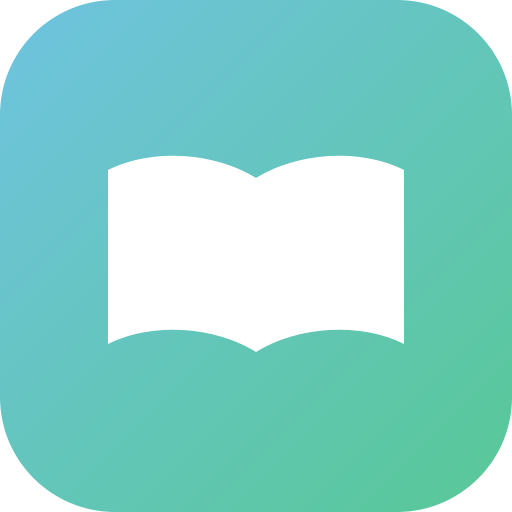
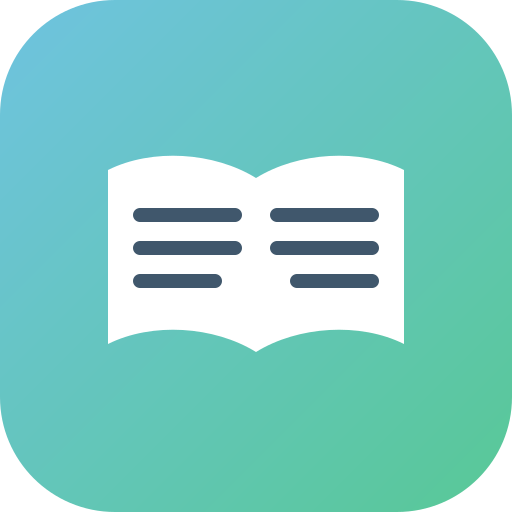
Rediseño Al Día (9/N): ícono de la PWA con renglones adentro, sin texto
A pedido de Santiago (mockup de referencia): el libro abierto ya existía
(ronda 9, ver _make_icons.js) pero estaba en blanco -- se le agregan 3
renglones cortos por página (líneas, no la palabra "Al Día") para que se
lea como un libro con contenido, mismo gradiente de marca (#6fc3e0 ->
#58c896) y misma lógica de safe-zone para el maskable de siempre.
Regenerados los 4 PNG (icon-192/icon-512/apple-touch-icon/maskable-512) --
el HTML ya los referenciaba por nombre de archivo así que no hizo falta
tocar ningún marcado, se actualizan solos en todos lados donde ya se
usaba (sidebar y hero de mockup-firme.html/landing.html).

diff --git a/_make_icons.js b/_make_icons.js
@@ -19,13 +19,33 @@ const GRAD_DEFS = `<linearGradient id="grad" x1="0%" y1="0%" x2="100%" y2="100%"
 // páginas abiertas en forma de ala, sin necesitar más de una forma.
 const BOOK_PATH = 'M256 178 C 214 152 152 148 108 170 L 108 344 C 152 322 214 326 256 352 C 298 326 360 322 404 344 L 404 170 C 360 148 298 152 256 178 Z';
 
+// Líneas de "texto" adentro de cada página (rediseño 2026-08-12, a pedido de
+// Santiago -- antes decía "Al" / "Día" en palabras; ahora son solo líneas,
+// como un libro con renglones, sin ninguna palabra encima). Tres renglones
+// por página, centrados dentro de la curva del ala para no salirse del
+// contorno del libro.
+const LINES = `
+    <g stroke="#1e3a52" stroke-width="14" stroke-linecap="round" opacity="0.85">
+      <line x1="140" y1="215" x2="235" y2="215"/>
+      <line x1="140" y1="248" x2="235" y2="248"/>
+      <line x1="140" y1="281" x2="215" y2="281"/>
+      <line x1="372" y1="215" x2="277" y2="215"/>
+      <line x1="372" y1="248" x2="277" y2="248"/>
+      <line x1="372" y1="281" x2="297" y2="281"/>
+    </g>`;
+
+// El libro + sus renglones se agrupan una sola vez y se reusan tal cual en
+// las dos variantes (ícono normal / maskable) para que ambos queden
+// idénticos salvo por el fondo y el escalado.
+const BOOK_GROUP = `<path d="${BOOK_PATH}" fill="#ffffff"/>${LINES}`;
+
 // Ícono normal: fondo redondeado, el libro ocupa casi todo -- para
 // apple-touch-icon e íconos "any" (iOS ya recorta las esquinas solo).
 const svgIcon = `
 <svg width="512" height="512" viewBox="0 0 512 512" xmlns="http://www.w3.org/2000/svg">
   <defs>${GRAD_DEFS}</defs>
   <rect width="512" height="512" rx="115" fill="url(#grad)"/>
-  <path d="${BOOK_PATH}" fill="#ffffff"/>
+  ${BOOK_GROUP}
 </svg>`.trim();
 
 // Ícono "maskable": el fondo llega hasta el borde (sin esquinas redondeadas
@@ -37,7 +57,7 @@ const svgMaskable = `
   <defs>${GRAD_DEFS}</defs>
   <rect width="512" height="512" fill="url(#grad)"/>
   <g transform="translate(256,256) scale(0.6) translate(-256,-256)">
-    <path d="${BOOK_PATH}" fill="#ffffff"/>
+    ${BOOK_GROUP}
   </g>
 </svg>`.trim();
 
@@ -45,7 +65,7 @@ const svgMaskable = `
 // (algo del lado de Windows lo bloquea con "unable to open for write" --
 // un fs.writeFileSync normal a la misma carpeta SÍ funciona, así que
 // generamos en el scratchpad con sharp y después copiamos con fs plano.
-const scratchDir = 'C:\\Users\\Usuario\\AppData\\Local\\Temp\\claude\\C--Users-Usuario\\3396db7f-4a8c-4754-9f76-e207e080df1c\\scratchpad';
+const scratchDir = 'C:\\Users\\Usuario\\AppData\\Local\\Temp\\claude\\C--Users-Usuario\\7f099f3a-5158-4520-93da-dc4d8bdbba4b\\scratchpad';
 const outDir = path.join(__dirname, 'icons');
 fs.writeFileSync(path.join(outDir, 'icon.svg'), svgIcon);
 
